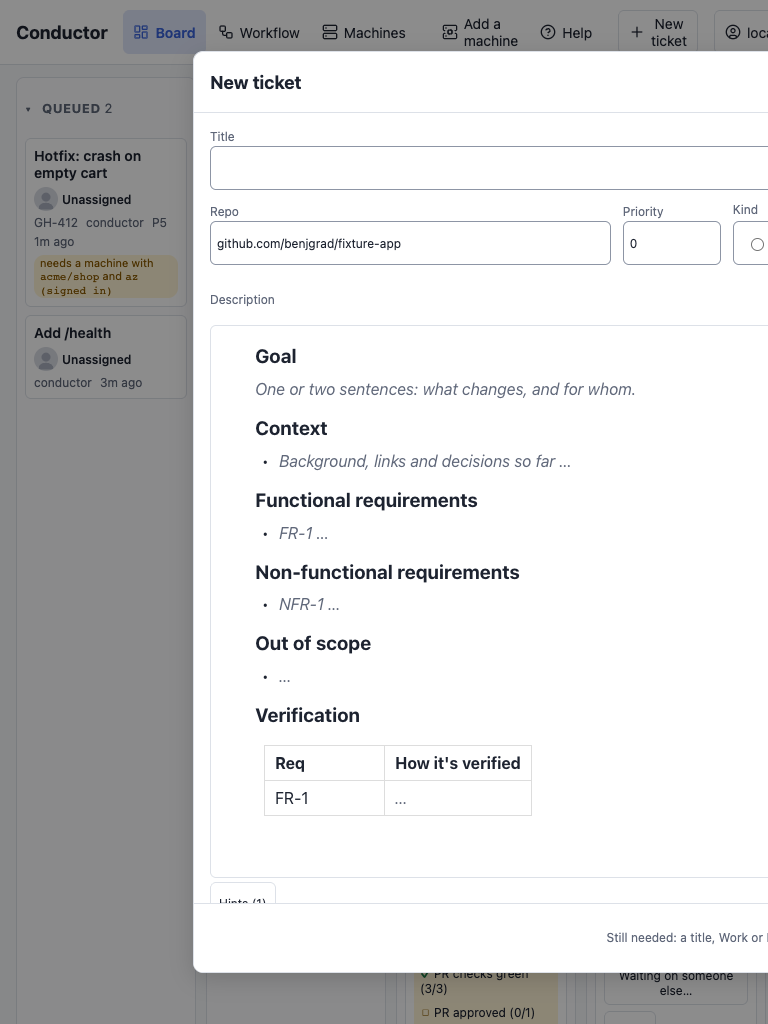
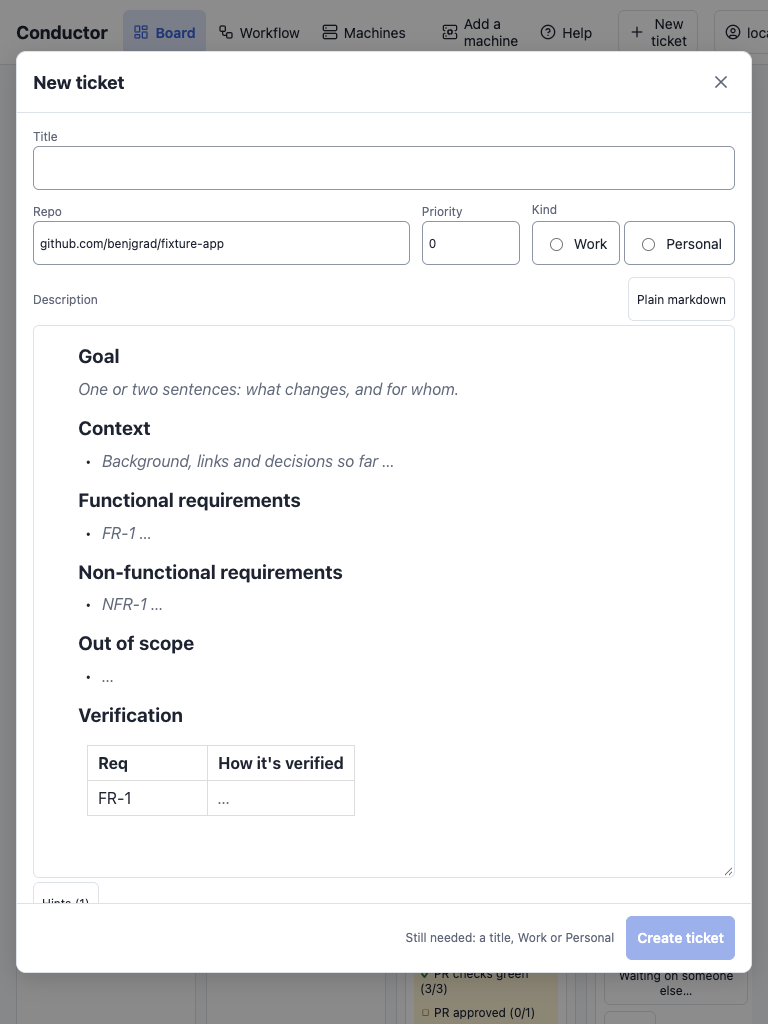
docs(qa): retake UXR-41 after shots on the merged board

diff --git a/docs/qa/ux-review/uxr-41/README.md b/docs/qa/ux-review/uxr-41/README.md
@@ -11,6 +11,4 @@ UXR-41 (S2, the November review), the desktop half of UXR-14: the create form ha
 | Tablet 768×1024 | [form](before/new-ticket-768x1024-light.png), [bottom](before/new-ticket-bottom-768x1024-light.png) | [sheet](after/new-ticket-768x1024-light.png), [bottom](after/new-ticket-bottom-768x1024-light.png) |
 | Phones 375 / 360, light and dark | [375](before/new-ticket-375x812-light.png), [375 bottom](before/new-ticket-bottom-375x812-light.png), [375 dark](before/new-ticket-375x812-dark.png), [360](before/new-ticket-360x740-light.png), [360 bottom](before/new-ticket-bottom-360x740-light.png) | **byte-identical** to before (the phone layout is out of scope) |
 
-`pageHeight` at 1440 goes from 2,010 px to 1,216 px, and the 1,216 is the board under the sheet, which no longer scrolls (`html.modal-open`).
-
-**Known, not from this change**: at 768 the board is already 1,146 px wide (`horizontalOverflow` in `board-768x1024-light`). Chrome's mobile emulation widens the layout viewport to fit it, so the fixed sheet is centred in 1,146 px and its right edge is outside the 768 shot. The board's overflow at tablet widths is a separate issue.
+`pageHeight` goes from 2,010 px to 900 at 1440, and from 2,213 to 1,024 at 768. No shot overflows sideways (`metrics.json`). The after shots were retaken after merging UXR-26, which made the desktop board's shell viewport-high: the sheet sits over that board.
